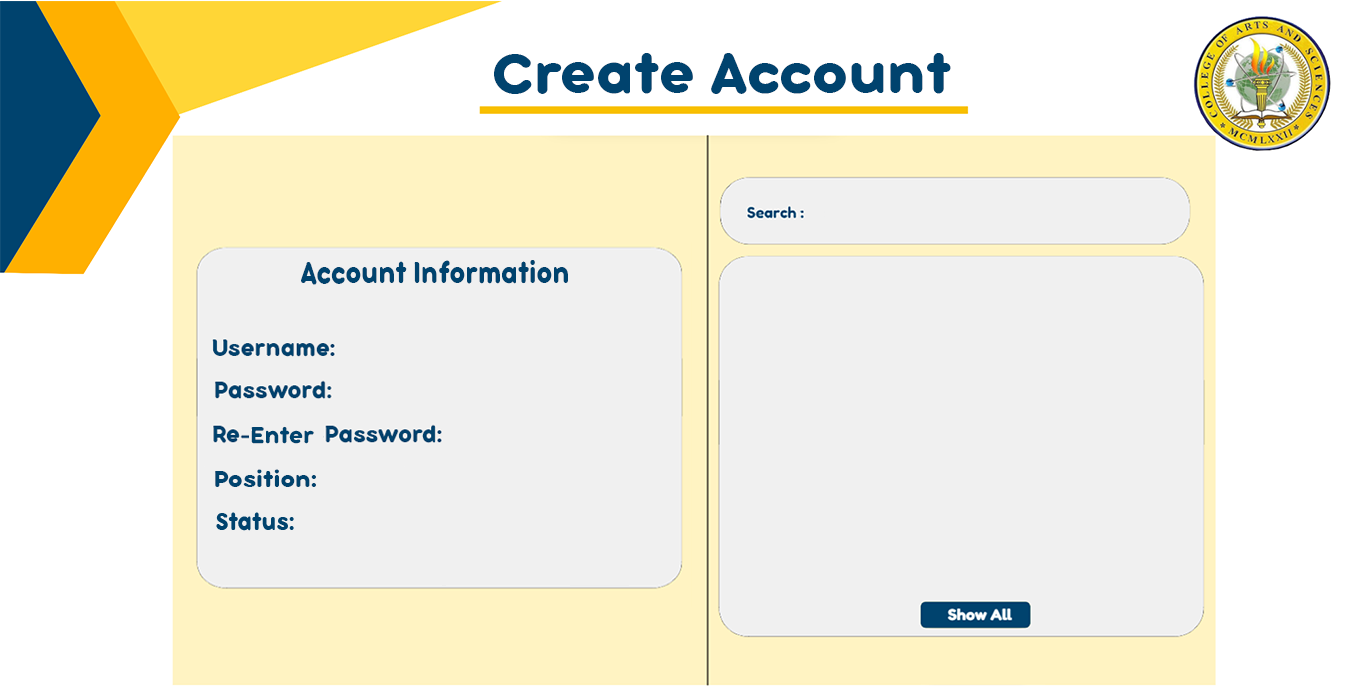
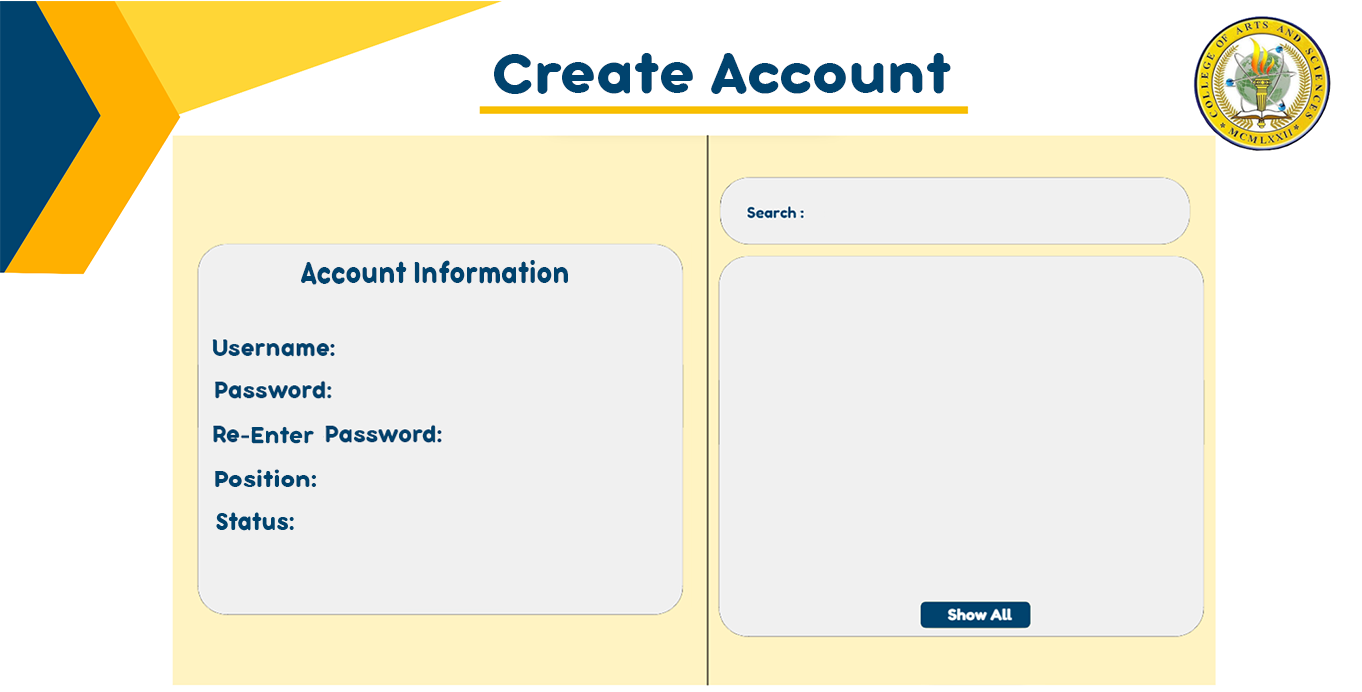
updated

Changed region(s): [[0.1233, 0.8194, 0.5242, 0.9104], [0.1542, 0.3338, 0.4934, 0.3642]]

diff --git a/monitoring.py b/monitoring.py
@@ -1234,17 +1234,25 @@ def new_win():
 	re_password_create = Entry(create_account, font="Heltvetica 13 bold")
 	re_password_create.place(x=455, y=425, width=160, height=25)
 
+	    # Entry Position
+	position_create = Entry(create_account, font="Heltvetica 13 bold")
+	position_create.place(x=345, y=472, width=160, height=25)
+
+	    # Entry Status
+	status_create = Entry(create_account, font="Heltvetica 13 bold")
+	status_create.place(x=345, y=511, width=160, height=25)
+
 		# Create Button
 	create_update_btn = PhotoImage(file = "pic/btn_acc_create.png")
 	create_button_update = customtkinter.CTkButton(master=create_account,image=create_update_btn, text="",
 	                                            corner_radius=10, fg_color="#00436e",hover_color="#006699", command= 'Update_Data')
-	create_button_update.place(x=250, y=522, height=38,width=160)
+	create_button_update.place(x=250, y=555, height=38,width=160)
 
 		# Update Button
 	create_acc_btn = PhotoImage(file = "pic/btn_acc_update.png")
 	create_acc_update = customtkinter.CTkButton(master=create_account,image=create_acc_btn, text="",
 	                                            corner_radius=10, fg_color="#00436e",hover_color="#006699", command= 'Update_Data')
-	create_acc_update.place(x=465, y=522, height=38,width=160)
+	create_acc_update.place(x=465, y=555, height=38,width=160)
 
 	    # Search Entry
 	search_create_val = StringVar()
